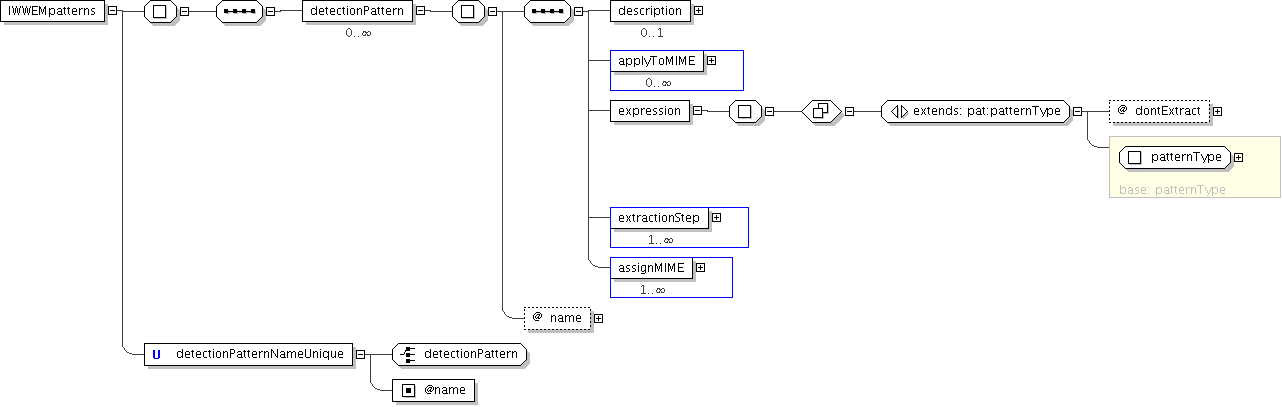
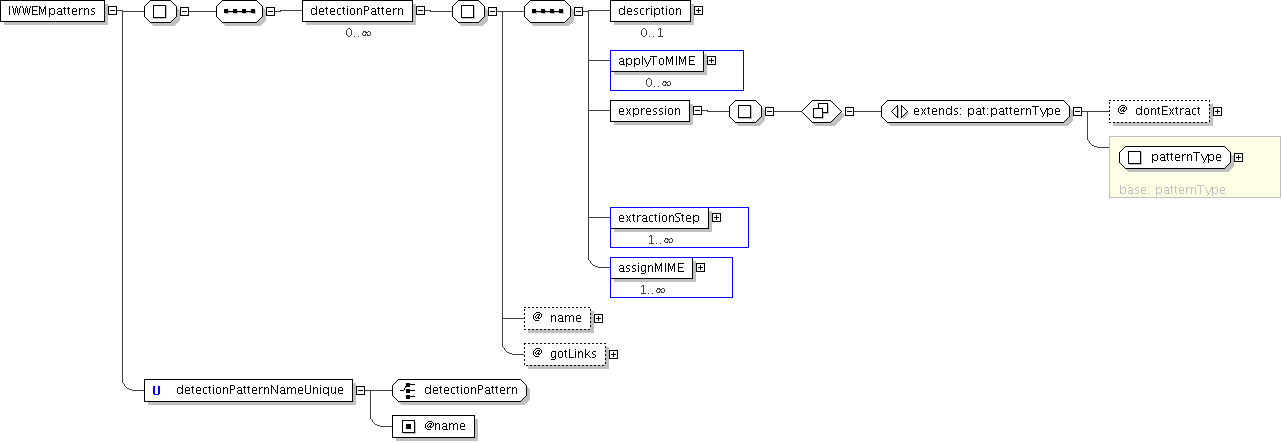
*	Taverna core has been updated to version 1.7.1. *	Documentation has been updated to describe in more detail 	IWWE&M identifiers used in frontends. *	Schema documentation for messages has been improved. *	Schema for patterns has been improved, taking into account 	the fact that some information is 
git-svn-id: http://trac.bioinfo.cnio.es/svn/iwwem/trunk@181 d1dc078d-3102-4980-90c0-2a41560b4363

Changed region(s): [[0.0, 0.0, 1.0, 0.5012], [0.4056, 0.4423, 0.5928, 0.855], [0.0936, 0.855, 0.4368, 1.0]]

diff --git a/weblauncher/docs/IWWEM-messages.xsd.html b/weblauncher/docs/IWWEM-messages.xsd.html
@@ -898,7 +898,7 @@ if (gc != null) {
          </tr>
          <tr>
             <th>Documentation</th>
-            <td class="documentation">$Id: IWWEM-messages.xsd 1227 2008-03-14 18:34:14Z jmfernandez $
+            <td class="documentation">$Id: IWWEM-messages.xsd 1253 2008-04-01 17:59:37Z jmfernandez $
 	
 This schema was designed to model
 the messages between frontend modules and AJAX layer of
@@ -1738,7 +1738,8 @@ an enaction job has been successfully enqueued</td>
          </tr>
          <tr>
             <th>Documentation</th>
-            <td class="documentation">Input examples, in baclava format</td>
+            <td class="documentation">Input examples. They are stored in the server in Baclava format.
+The textual content of this element is the description of the example (possibly HTML in a CDATA)</td>
          </tr>
       </table>
       <div class="sample box">
@@ -1771,19 +1772,23 @@ an enaction job has been successfully enqueued</td>
             <div style="margin-left: 0em">&lt;<a href="#ns_iwwem" title="Find out namespace of 'iwwem' prefix">iwwem</a>:example<br/>
                <span style="margin-left: 0.5em"> uuid="<span class="type">
                      <a href="#ns_xsd" title="Find out namespace of 'xsd' prefix">xsd</a>:string</span> 
-                  <span class="occurs">[1]</span>"</span>
+                  <span class="occurs">[1]</span> 
+                  <p class="documentation">'The snapshot UUID. As this UUID has only meaning taking into account the context workflow, it is it unqualified form'</p>"</span>
                <br/>
                <span style="margin-left: 0.5em"> name="<span class="type">
                      <a href="#ns_xsd" title="Find out namespace of 'xsd' prefix">xsd</a>:string</span> 
-                  <span class="occurs">[1]</span>"</span>
+                  <span class="occurs">[1]</span> 
+                  <p class="documentation">'The name given to the example'</p>"</span>
                <br/>
                <span style="margin-left: 0.5em"> path="<span class="type">
                      <a href="#ns_xsd" title="Find out namespace of 'xsd' prefix">xsd</a>:anyURI</span> 
-                  <span class="occurs">[1]</span>"</span>
+                  <span class="occurs">[1]</span> 
+                  <p class="documentation">'The relative URL to the Baclava file'</p>"</span>
                <br/>
                <span style="margin-left: 0.5em"> date="<span class="type">
                      <a href="#ns_xsd" title="Find out namespace of 'xsd' prefix">xsd</a>:dateTime</span> 
-                  <span class="occurs">[1]</span>"</span>&gt; <br/>
+                  <span class="occurs">[1]</span> 
+                  <p class="documentation">'The creation date of the snapshot'</p>"</span>&gt; <br/>
                <span style="margin-left: 1.5em"> 
                   <span class="type">
                      <a href="#ns_xsd" title="Find out namespace of 'xsd' prefix">xsd</a>:string</span> 
@@ -2272,7 +2277,7 @@ an enaction job has been successfully enqueued</td>
          </tr>
          <tr>
             <th>Documentation</th>
-            <td class="documentation">Snapshots from workflow executions</td>
+            <td class="documentation">Snapshots from workflow executions. The textual content of this element is the description of the snapshot (possibly HTML in a CDATA)</td>
          </tr>
       </table>
       <div class="sample box">
@@ -2305,15 +2310,18 @@ an enaction job has been successfully enqueued</td>
             <div style="margin-left: 0em">&lt;<a href="#ns_iwwem" title="Find out namespace of 'iwwem' prefix">iwwem</a>:snapshot<br/>
                <span style="margin-left: 0.5em"> uuid="<span class="type">
                      <a href="#ns_xsd" title="Find out namespace of 'xsd' prefix">xsd</a>:string</span> 
-                  <span class="occurs">[1]</span>"</span>
+                  <span class="occurs">[1]</span> 
+                  <p class="documentation">'The snapshot UUID. This UUID has only meaning taking into account the context workflow, so its format depends on the place where it appears. In a workflow repository report it is it unqualified form, meanwhile in an enaction report it is in qualified form'</p>"</span>
                <br/>
                <span style="margin-left: 0.5em"> name="<span class="type">
                      <a href="#ns_xsd" title="Find out namespace of 'xsd' prefix">xsd</a>:string</span> 
-                  <span class="occurs">[1]</span>"</span>
+                  <span class="occurs">[1]</span> 
+                  <p class="documentation">'The name given to the snapshot'</p>"</span>
                <br/>
                <span style="margin-left: 0.5em"> date="<span class="type">
                      <a href="#ns_xsd" title="Find out namespace of 'xsd' prefix">xsd</a>:dateTime</span> 
-                  <span class="occurs">[1]</span>"</span>&gt; <br/>
+                  <span class="occurs">[1]</span> 
+                  <p class="documentation">'The creation date of the snapshot'</p>"</span>&gt; <br/>
                <span style="margin-left: 1.5em"> 
                   <span class="type">
                      <a href="#ns_xsd" title="Find out namespace of 'xsd' prefix">xsd</a>:string</span> 

diff --git a/weblauncher/docs/IWWEM-patterns.xsd.html b/weblauncher/docs/IWWEM-patterns.xsd.html
@@ -838,7 +838,7 @@ if (gc != null) {
          </tr>
          <tr>
             <th>Documentation</th>
-            <td class="documentation">$Id: IWWEM-patterns.xsd 1227 2008-03-14 18:34:14Z jmfernandez $
+            <td class="documentation">$Id: IWWEM-patterns.xsd 1253 2008-04-01 17:59:37Z jmfernandez $
 
     This schema is used to hold the information about the usable
 recognition patterns. These patterns can be either RE (for raw text)
@@ -983,7 +983,12 @@ information.
                   <span style="margin-left: 0.5em"> name="<span class="type">
                         <a href="#ns_xsd" title="Find out namespace of 'xsd' prefix">xsd</a>:string</span> 
                      <span class="occurs">[1]</span> 
-                     <p class="documentation">'Symbolic detection name'</p>"</span>&gt;  <span class="occurs">[0..*]</span>  
+                     <p class="documentation">'Symbolic detection name'</p>"</span>
+                  <br/>
+                  <span style="margin-left: 0.5em"> gotLinks="<span class="type">
+                        <a href="#ns_xsd" title="Find out namespace of 'xsd' prefix">xsd</a>:boolean</span> 
+                     <span class="occurs">[0..1]</span> 
+                     <p class="documentation">'Does this detection pattern get links to data, instead of raw data?'</p>"</span>&gt;  <span class="occurs">[0..*]</span>  
                   <p class="documentation">'A recognition/detection/extraction pattern. It is applied in two steps. First one, at least one of the input MIME types must match with at least one of the detectable MIME types. Second one, the detection pattern must match the content. Once these two steps are fulfilled, the extraction patterns are applied on the patterned subsets.'</p>
                   <br/>
                   <div style="margin-left: 1.5em">&lt;<a href="#ns_pat" title="Find out namespace of 'pat' prefix">pat</a>:description&gt; <span class="type">
@@ -1129,7 +1134,12 @@ information.
                               <span class="scTag">name</span>="<span class="scContent">name</span>" <span class="scTag">type</span>="<span class="scContent">
                                  <span class="type">
                                     <a href="#ns_xsd" title="Find out namespace of 'xsd' prefix">xsd</a>:string</span>
-                              </span>" <span class="scTag">use</span>="<span class="scContent">required</span>"/&gt;</div>&lt;/<span class="scTag">xsd:complexType</span>&gt;</div>&lt;/<span class="scTag">xsd:element</span>&gt;</div>&lt;/<span class="scTag">xsd:sequence</span>&gt;</div>&lt;/<span class="scTag">xsd:complexType</span>&gt;</div>
+                              </span>" <span class="scTag">use</span>="<span class="scContent">required</span>"/&gt;</div>
+                           <div style="margin-left: 1.5em">&lt;<span class="scTag">xsd:attribute</span> 
+                              <span class="scTag">name</span>="<span class="scContent">gotLinks</span>" <span class="scTag">type</span>="<span class="scContent">
+                                 <span class="type">
+                                    <a href="#ns_xsd" title="Find out namespace of 'xsd' prefix">xsd</a>:boolean</span>
+                              </span>" <span class="scTag">use</span>="<span class="scContent">optional</span>" <span class="scTag">default</span>="<span class="scContent">false</span>"/&gt;</div>&lt;/<span class="scTag">xsd:complexType</span>&gt;</div>&lt;/<span class="scTag">xsd:element</span>&gt;</div>&lt;/<span class="scTag">xsd:sequence</span>&gt;</div>&lt;/<span class="scTag">xsd:complexType</span>&gt;</div>
                <div style="margin-left: 1.5em">&lt;<span class="scTag">xsd:unique</span> 
                   <span class="scTag">name</span>="<span class="scContent">detectionPatternNameUnique</span>"&gt;<div style="margin-left: 1.5em">&lt;<span class="scTag">xsd:selector</span> 
                      <span class="scTag">xpath</span>="<span class="scContent">detectionPattern</span>"/&gt;</div>

diff --git a/weblauncher/docs/frontends.html b/weblauncher/docs/frontends.html
@@ -29,6 +29,21 @@ Currently, IWWE&amp;M has 4 frontends, used by AJAX GUIs:
 </ul>
 <hr>
 
+<p>All these frontends use the concept of IDs: workflow IDs, example IDs, enaction IDs, snapshot IDs. All the unqualified IDs have the format of an <a href="http://en.wikipedia.org/wiki/UUID">UUID</a>, but there are some differences when the IDs are fully quilified:</p>
+<ul>
+<li>Any workflow ID has the format of an UUID, for instance 2365b91b-b7ae-4aa9-ae70-e8be4f40c0b3. So, workflow IDs have the same qualified and unqualified representation.</li>
+<li>As an example ID depends on a workflow, a fully qualified example ID has the format of "example:{wUUID}:{eUUID}", where wUUID is the workflow ID and eUUID is the example ID.
+For instance:
+<div align="center">example:0b4d3b5c-d4e7-4697-a831-7be74a35943b:f81c2a2a-3a85-454a-a9fe-077b2fcc6201</div>
+</li>
+<li>Any enaction ID has the format of an UUID, for instance 7fd924fe-17de-428b-b5ca-607fab01eb9a. In some contexts it is needed to differenciate between a workflow ID and an enaction ID, so its qualified form is "enaction:{nUUID}", where nUUID is the enaction ID.
+</li>
+<li>As an snapshot ID depends on a workflow, a fully qualified snapshot ID has the format of
+"snapshot:{wUUID}:{sUUID}", where wUUID is the workflow ID and eUUID is the snapshot ID. For instance:
+<div align="center">snapshot:bd7c0e35-8749-45d9-9340-50f40d72de2f:fb71bf25-c17b-4345-a379-a52c1249ecb7</div>
+</li>
+</ul>
+
 <a name="workflowmanager"><div align="center"><h2>INB IWWE&amp;M: <span class="frontend">workflowmanager</span> frontend documentation and call parameters</h2></div></a>
 
 <div align="justify">

diff --git a/weblauncher/js/datamatcher.js b/weblauncher/js/datamatcher.js
@@ -180,6 +180,7 @@ DataMatcher.Match = function(data,pattern,numMatch) {
 
 DataMatcher.DetectionPattern = function(patternDOM) {
 	this.name=patternDOM.getAttribute('name');
+	this.isLink=patternDOM.getAttribute('gotLinks')=='true';
 	this.description=undefined;
 	this.expression=undefined;
 	this.targetMIME=new Array();
@@ -259,7 +260,7 @@ DataMatcher.DetectionPattern.prototype = {
 						var pmatch=new DataObject((extStep.encoding!='raw')?arrRet:undefined,(extStep.encoding=='raw')?arrRet:undefined);
 						paramArray.push(pmatch);
 					}
-					var datamatch = new DataObject((fextStep.encoding!='raw')?farrRet:undefined,(fextStep.encoding=='raw')?farrRet:undefined,paramArray,this.assignMIME);
+					var datamatch = new DataObject((fextStep.encoding!='raw')?farrRet:undefined,(fextStep.encoding=='raw')?farrRet:undefined,paramArray,this.assignMIME,this.isLink);
 					var match=new DataMatcher.Match(datamatch,this.name,candi);
 					results.push(match);
 				}

diff --git a/weblauncher/js/baclavahandling.js b/weblauncher/js/baclavahandling.js
@@ -8,7 +8,7 @@
 	*	Spanish National Bioinformatics Institute (INB, http://www.inab.org/)
 */
 
-function DataObject(base64Input,nativeInput,/* optional */ params,mimeList) {
+function DataObject(base64Input,nativeInput,/* optional */ params,mimeList,isLink) {
 	if(!base64Input)  base64Input=undefined;
 	if(!nativeInput)  nativeInput=undefined;
 	
@@ -19,6 +19,7 @@ function DataObject(base64Input,nativeInput,/* optional */ params,mimeList) {
 	this.candidateMatches=undefined;
 	this.params=params;
 	this.mimeList=mimeList;
+	this.isLink=isLink;
 }
 
 DataObject.prototype = {

diff --git a/weblauncher/js/databrowser.js b/weblauncher/js/databrowser.js
@@ -203,7 +203,7 @@ DataBrowser.prototype={
 					if(viewer) {
 						var dataObject = databrowser.dataObject;
 						var dataValue=undefined;
-						if(viewer.dataSource==DataBrowser.Inline) {
+						if(viewer.dataSource==DataBrowser.Inline || dataObject.isLink) {
 							dataValue = dataObject.data[(viewer.dataFormat == DataBrowser.Native)?1:0];
 						} else {
 							dataValue=downloadURL;

diff --git a/src/main/java/org/cnio/scombio/jmfernandez/taverna/INBWorkflowParserWrapper.java b/src/main/java/org/cnio/scombio/jmfernandez/taverna/INBWorkflowParserWrapper.java
@@ -237,8 +237,8 @@ public class INBWorkflowParserWrapper {
 	 * This version has to match the version of the real dependency you have to
 	 * Taverna libraries on your classpath (ie. the pom.xml dependencies).
 	 */
-	public static final String TAVERNA_BASE_VERSION = "1.7.0.0";
-	public static final String TAVERNA_MINOR_VERSION = "1.7.0.0";
+	public static final String TAVERNA_BASE_VERSION = "1.7.1.0";
+	public static final String TAVERNA_MINOR_VERSION = "1.7.1.0";
 	private static final String SCRIPT_NAME="inbworkflowparser";
 	private static final String SVG_ZOOM="SVGzoom.js";
 	private static final String SVG_TOOLTIP="SVGtooltip.js";
